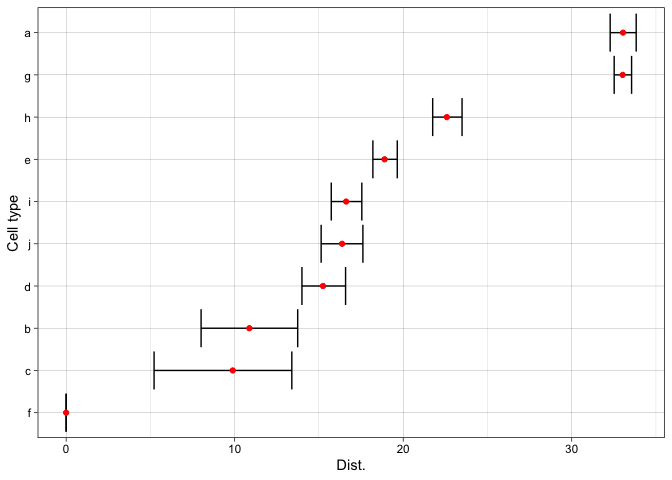
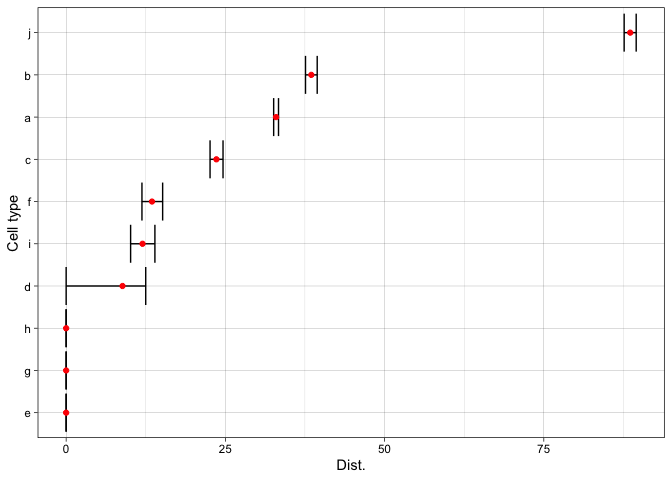
Updating

diff --git a/README.md b/README.md
@@ -1,7 +1,7 @@
 scDist: Robust identification of perturbed cell types in single-cell
 RNA-seq data
 ================
-R package version 1.1.1
+R package version 1.1.2
 
 ## System Requirements
 
@@ -36,7 +36,7 @@ sim <- simData(nct=10,N1=5,N2=5)
 dim(sim$Y) #Normalized counts
 ```
 
-    ## [1] 1000 5100
+    ## [1] 1000 4970
 
 ``` r
 rownames(sim$Y) <- 1:1000
@@ -59,7 +59,6 @@ out <- scDist(sim$Y,sim$meta.data,fixed.effects = "response",
               clusters="clusters")
 ```
 
-    ## [1] 1000
     ## ================================================================================
 
 The results data frame gives a summary of the estimated distance and
@@ -70,16 +69,16 @@ out$results
 ```
 
     ##       Dist. 95% CI (low) 95% CI (upper)        p.val
-    ## a 33.044137    32.281250       33.82516 0.0000099999
-    ## b 10.870614     8.007240       13.73925 0.0048399516
-    ## c  9.885715     5.217373       13.39083 0.4479655203
-    ## d 15.240428    13.991557       16.58055 0.0000099999
-    ## e 18.897089    18.201092       19.64802 0.0000099999
-    ## f  0.000000     0.000000        0.00000 0.9478205218
-    ## g 33.022750    32.519064       33.55178 0.0000099999
-    ## h 22.591648    21.749534       23.49203 0.0000099999
-    ## i 16.613041    15.731826       17.54432 0.0000099999
-    ## j 16.371930    15.131200       17.60823 0.0000099999
+    ## a 32.959502     32.58274       33.34466 0.0000099999
+    ## b 38.491548     37.58184       39.41957 0.0000099999
+    ## c 23.595509     22.59581       24.63245 0.0000099999
+    ## d  8.848442      0.00000       12.49404 0.7220227798
+    ## e  0.000000      0.00000        0.00000 0.9785502145
+    ## f 13.480642     11.90159       15.15108 0.0000099999
+    ## g  0.000000      0.00000        0.00000 0.9504704953
+    ## h  0.000000      0.00000        0.00000 0.9495605044
+    ## i 11.991456     10.12235       13.93573 0.0000599994
+    ## j 88.566794     87.61600       89.50476 0.0000099999
 
 The true distances are
 
@@ -89,9 +88,9 @@ sim$D.true
 ```
 
     ##         a         b         c         d         e         f         g         h 
-    ## 31.497609  4.408609  5.153658 10.700209 15.551271  2.764961 31.310492 19.893417 
+    ## 31.497609 36.291212 20.618938  3.602791  1.823269  7.908243  1.228762  1.030859 
     ##         i         j 
-    ## 13.349565 13.045934
+    ##  6.250907 88.944895
 
 We can also plot the results
 

diff --git a/NEWS.md b/NEWS.md
@@ -1,3 +1,7 @@
+## Version 1.1.2 September 15, 2024
+
+This update improves the functions in `plotting.R`, adds input checking to `scDist()`, and adds some missing documentation. See PR 8 and 10. 
+
 ## Version 1.1.1 September 4, 2024
 
 This update primarily addresses bugs in `distGenes`.
